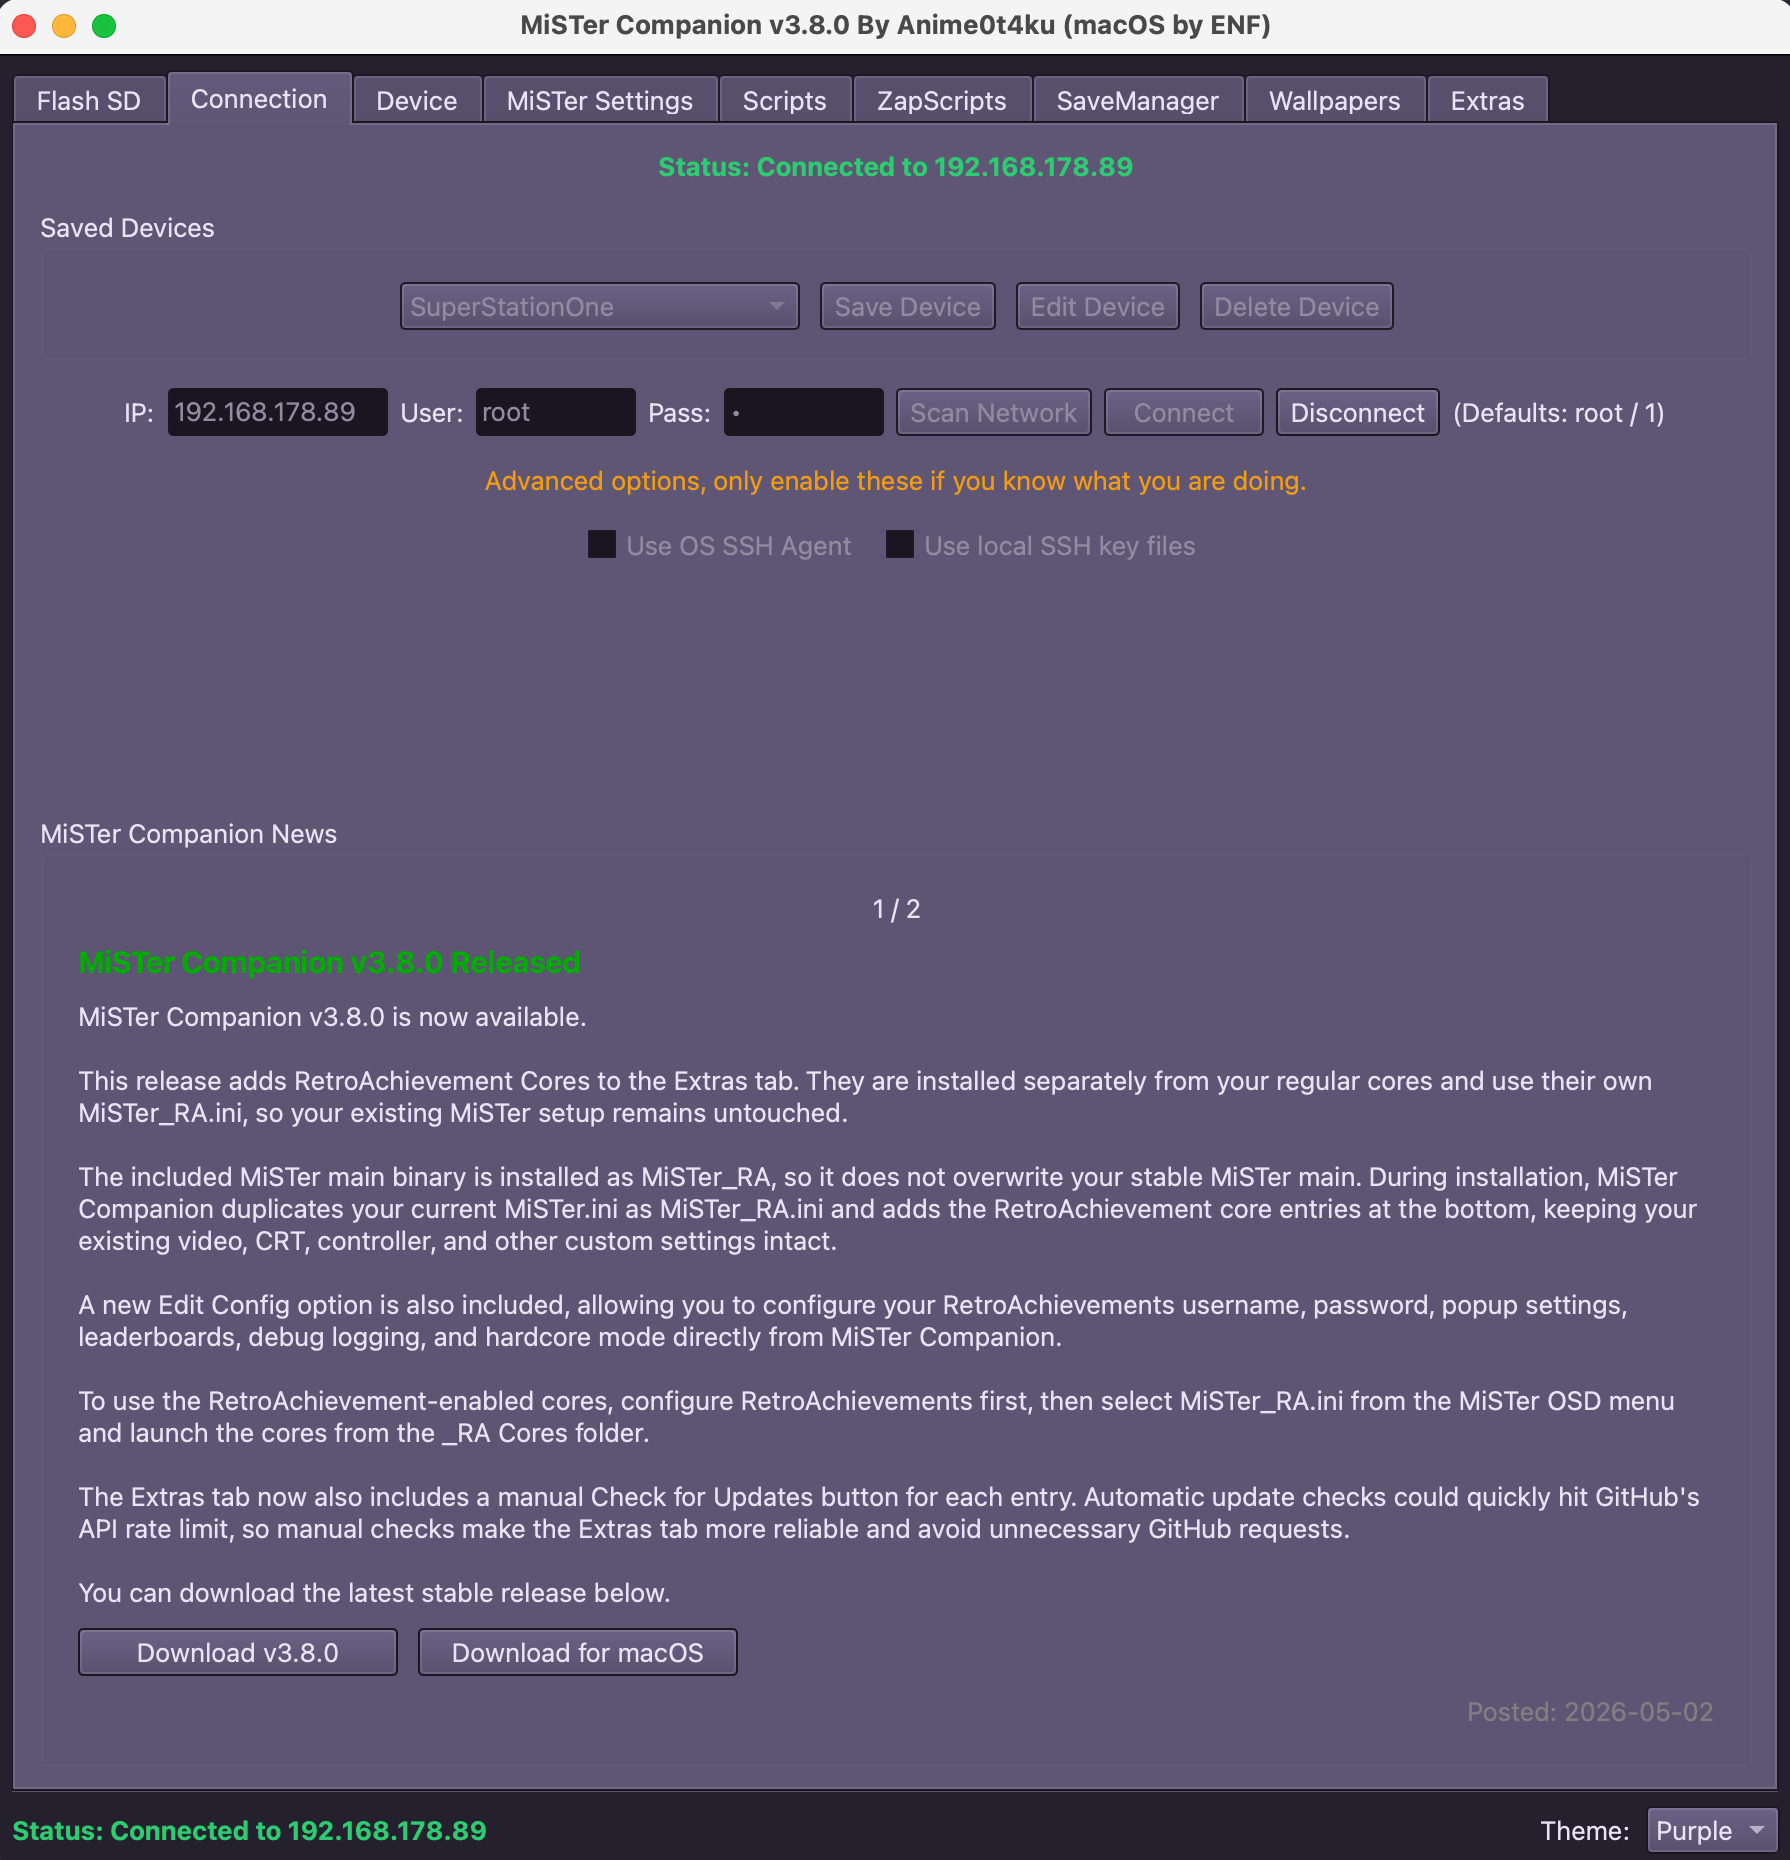
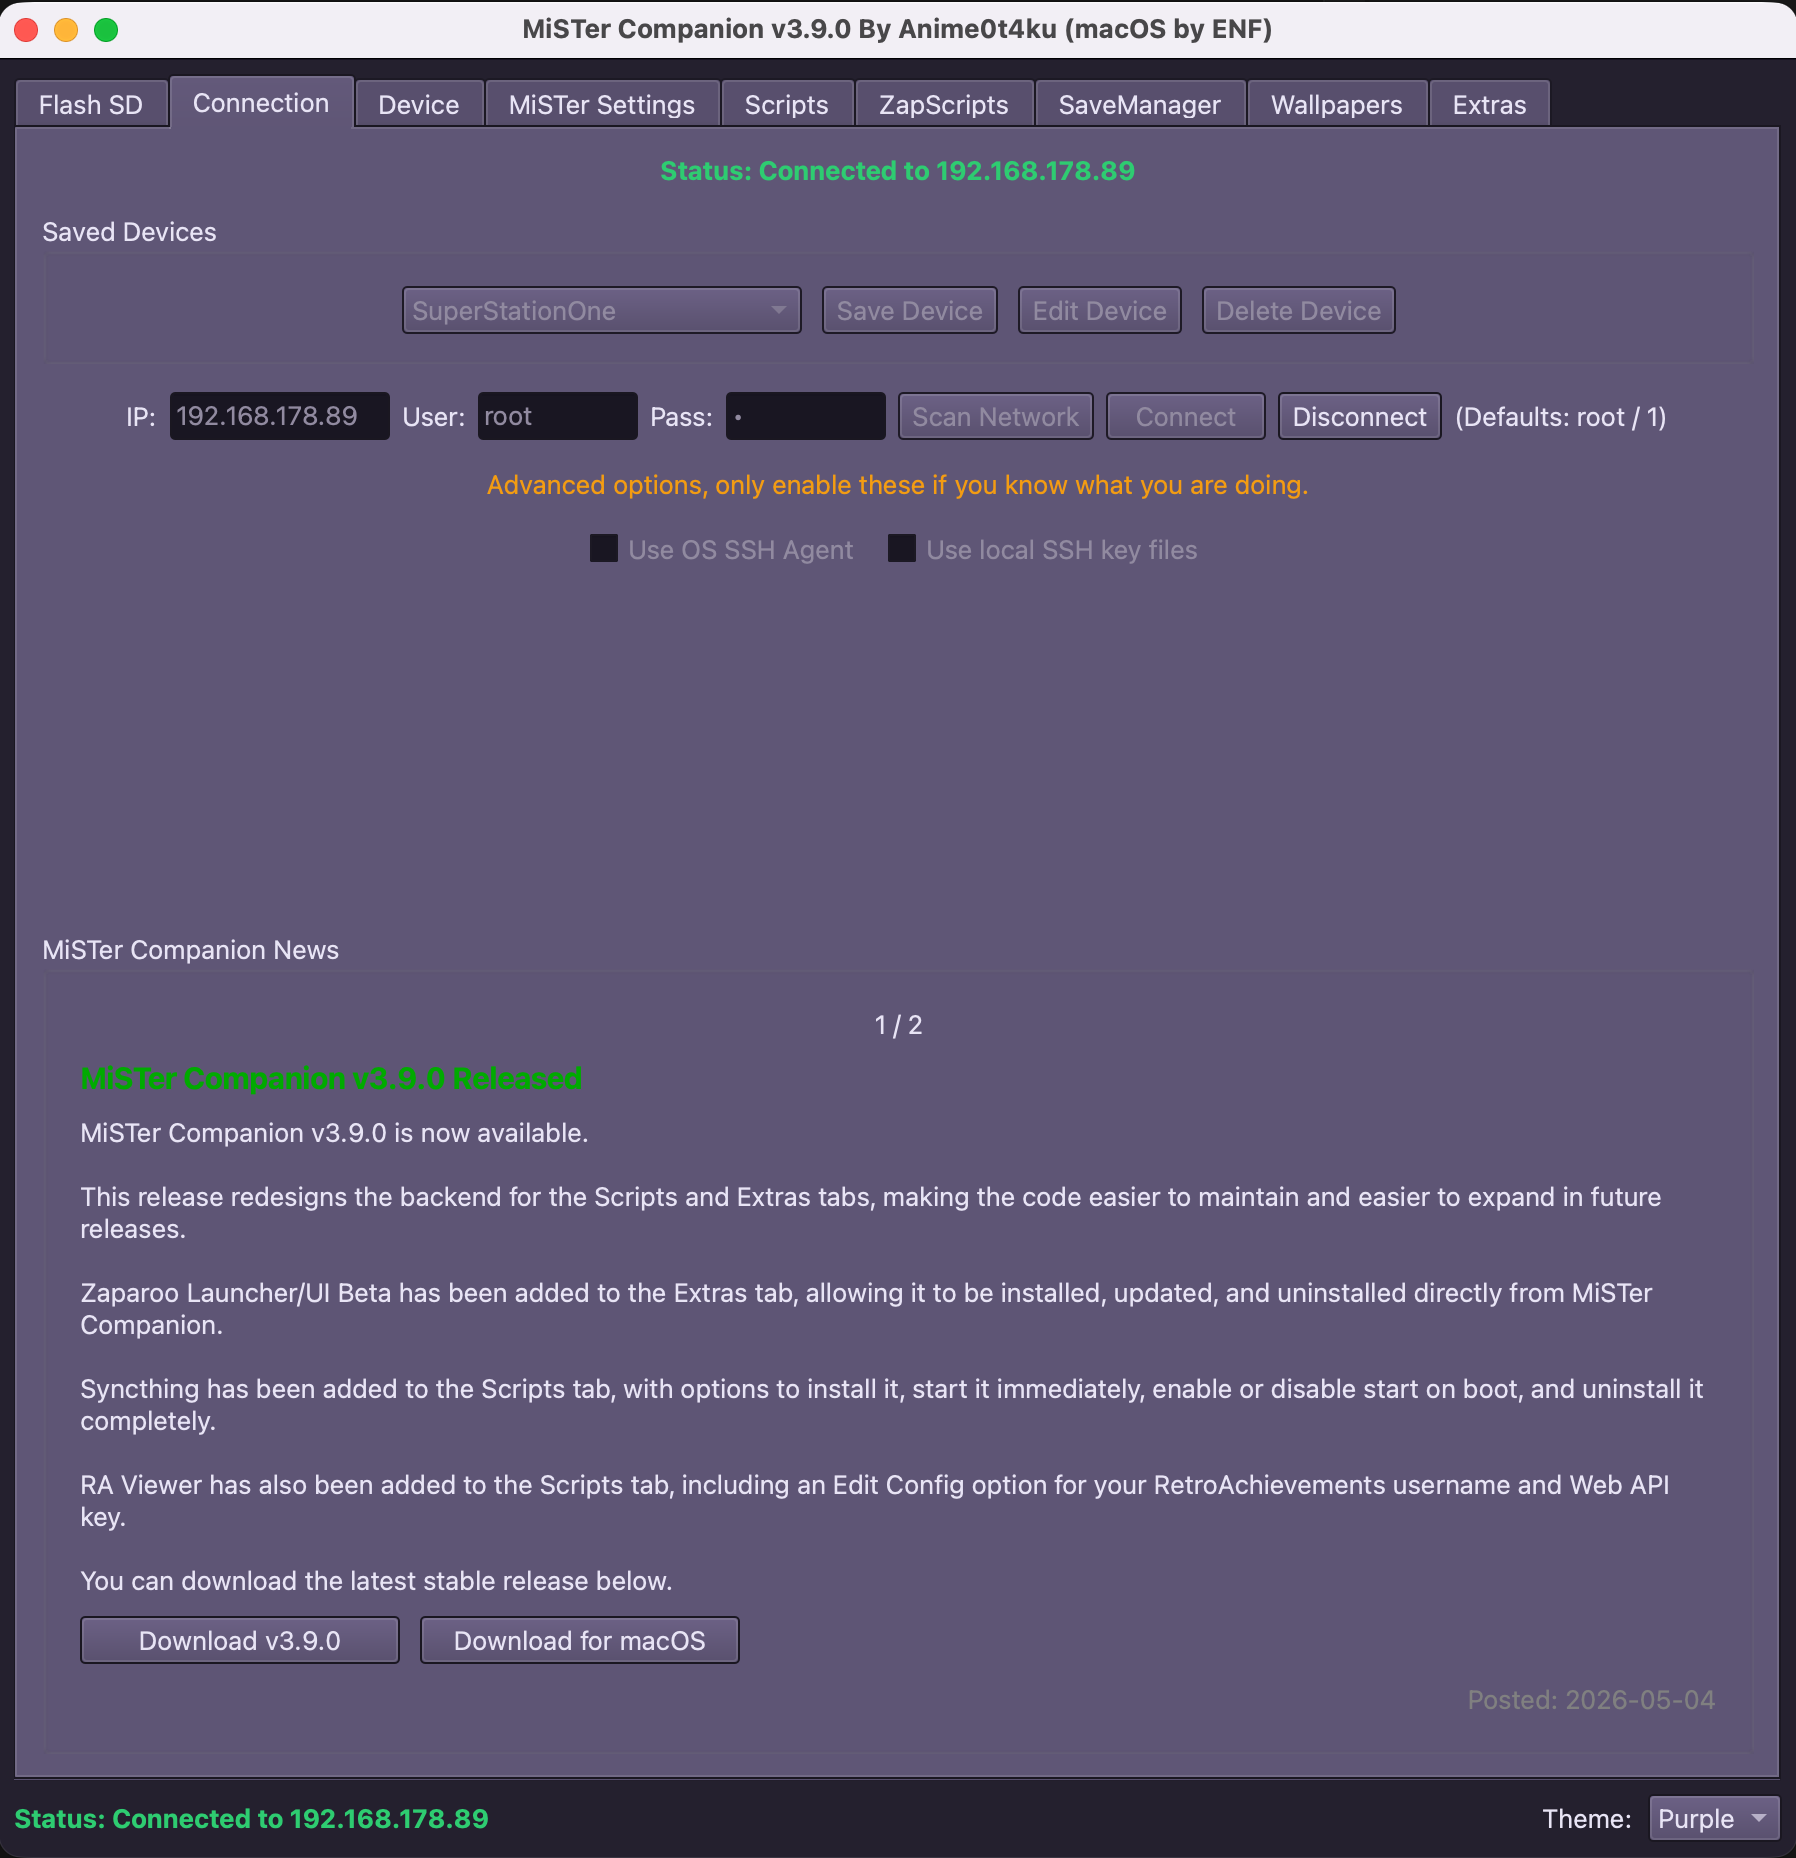
Docs: tweak

diff --git a/README.md b/README.md
@@ -12,7 +12,7 @@ This port provides a native `.app` bundle and DMG installer for Apple Silicon Ma
 
 | Platform | File | Link |
 |---|---|---|
-| macOS (Apple Silicon, arm64) | `MiSTer Companion-3.8.0.dmg` | **[Download v3.8.0](https://github.com/ENFStudios/mister-companion-macos/releases/download/v3.8.0/MiSTer.Companion-3.8.0.dmg)** |
+| macOS (Apple Silicon, arm64) | `MiSTer Companion-3.9.0.dmg` | **[Download v3.9.0](https://github.com/ENFStudios/mister-companion-macos/releases/download/v3.9.0/MiSTer.Companion-3.9.0.dmg)** |
 
 Older versions remain on the [releases page](https://github.com/ENFStudios/mister-companion-macos/releases).
 
